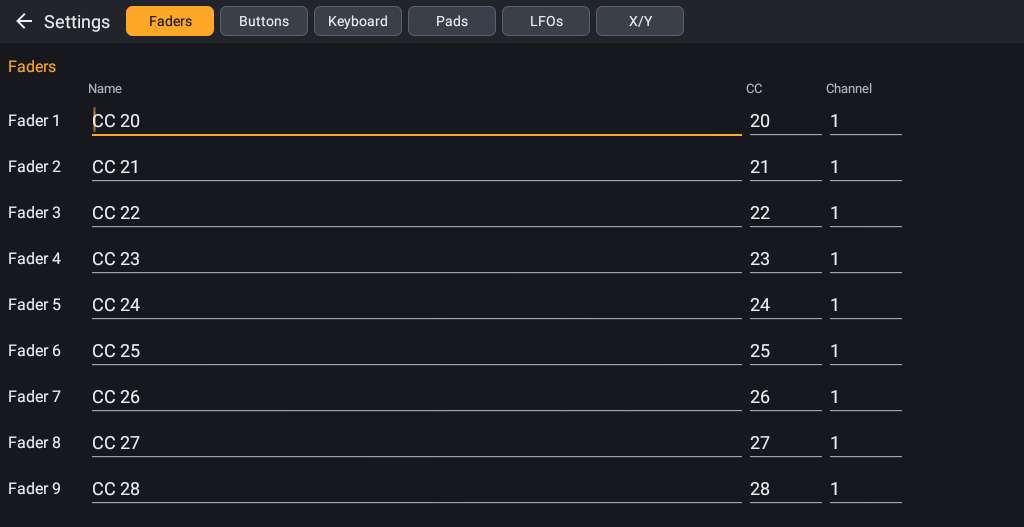
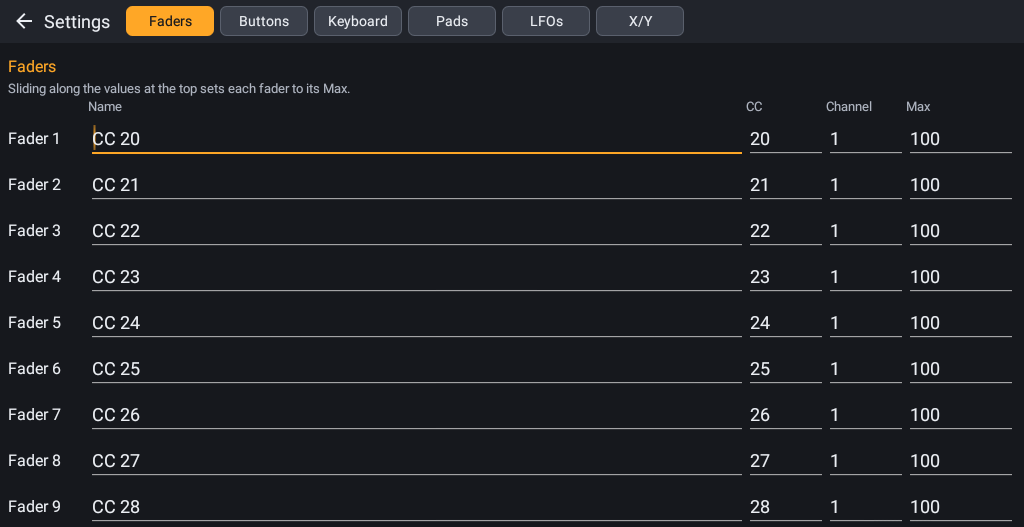
Fader Max: the top-row swipe sets each Fader to its own Max (default 100)

diff --git a/app/src/main/java/com/duddex/faderling/SettingsActivity.kt b/app/src/main/java/com/duddex/faderling/SettingsActivity.kt
@@ -83,8 +83,12 @@ class SettingsActivity : Activity() {
 
     private fun section(list: LinearLayout, kind: ControlKind, titleRes: Int, labelRes: Int) {
         list.addView(text(getString(titleRes), Palette.ACCENT, 16f).apply { setPadding(0, dp(12), 0, dp(2)) })
-        list.addView(columnLabels(kind == ControlKind.BUTTON))
-        (0 until kind.count).forEach { i -> list.addView(row(kind, i, assignments.getValue(kind to i), getString(labelRes, i + 1))) }
+        if (kind == ControlKind.FADER) list.addView(text(getString(R.string.faders_hint), Palette.TEXT_DIM, 13f))
+        list.addView(columnLabels(kind))
+        val maxes = if (kind == ControlKind.FADER) store.loadFaderMaxes() else emptyList()
+        (0 until kind.count).forEach { i ->
+            list.addView(row(kind, i, assignments.getValue(kind to i), getString(labelRes, i + 1), maxes.getOrNull(i)))
+        }
     }
 
     private fun keyboardSection(list: LinearLayout) {
@@ -191,7 +195,7 @@ class SettingsActivity : Activity() {
     private fun lfoSection(list: LinearLayout) {
         list.addView(text(getString(R.string.section_lfos), Palette.ACCENT, 16f).apply { setPadding(0, dp(12), 0, dp(2)) })
         list.addView(text(getString(R.string.lfos_hint), Palette.TEXT_DIM, 13f))
-        list.addView(columnLabels(withMode = false))
+        list.addView(columnLabels(null))
         store.loadLfoAssignments().forEachIndexed { i, lfo ->
             val name = edit(lfo.name, InputType.TYPE_CLASS_TEXT or InputType.TYPE_TEXT_FLAG_CAP_WORDS, Assignment.MAX_NAME_LENGTH)
             val cc = edit(lfo.cc.toString(), InputType.TYPE_CLASS_NUMBER, 3)
@@ -262,19 +266,25 @@ class SettingsActivity : Activity() {
         }
     }
 
-    private fun columnLabels(withMode: Boolean): View = LinearLayout(this).apply {
+    private fun columnLabels(kind: ControlKind?): View = LinearLayout(this).apply {
         addView(text("", Palette.TEXT_DIM, 13f), LinearLayout.LayoutParams(dp(80), LinearLayout.LayoutParams.WRAP_CONTENT))
         addView(text(getString(R.string.label_name), Palette.TEXT_DIM, 13f), LinearLayout.LayoutParams(0, LinearLayout.LayoutParams.WRAP_CONTENT, 1f))
         addView(text(getString(R.string.label_cc), Palette.TEXT_DIM, 13f), LinearLayout.LayoutParams(dp(80), LinearLayout.LayoutParams.WRAP_CONTENT))
         addView(text(getString(R.string.label_channel), Palette.TEXT_DIM, 13f), LinearLayout.LayoutParams(dp(80), LinearLayout.LayoutParams.WRAP_CONTENT))
-        addView(text(if (withMode) getString(R.string.label_mode) else "", Palette.TEXT_DIM, 13f), LinearLayout.LayoutParams(dp(MODE_WIDTH), LinearLayout.LayoutParams.WRAP_CONTENT))
+        val last = when (kind) {
+            ControlKind.FADER -> getString(R.string.label_max)
+            ControlKind.BUTTON -> getString(R.string.label_mode)
+            null -> ""
+        }
+        addView(text(last, Palette.TEXT_DIM, 13f), LinearLayout.LayoutParams(dp(MODE_WIDTH), LinearLayout.LayoutParams.WRAP_CONTENT))
     }
 
-    private fun row(kind: ControlKind, index: Int, a: Assignment, label: String): View {
+    private fun row(kind: ControlKind, index: Int, a: Assignment, label: String, max: Int?): View {
         val name = edit(a.name, InputType.TYPE_CLASS_TEXT or InputType.TYPE_TEXT_FLAG_CAP_WORDS, Assignment.MAX_NAME_LENGTH)
         val cc = edit(a.cc.toString(), InputType.TYPE_CLASS_NUMBER, 3)
         val channel = edit(a.channel.toString(), InputType.TYPE_CLASS_NUMBER, 2)
         val mode = if (kind == ControlKind.BUTTON) modeSwitch(a.mode) else null
+        val maxField = max?.let { edit(it.toString(), InputType.TYPE_CLASS_NUMBER, 3) }
         val warning = text("", Palette.ACCENT, 13f).apply { visibility = View.GONE }
         val r = Row(kind, index, name, cc, channel, mode, warning).apply { current = a }
         rows += r
@@ -287,6 +297,15 @@ class SettingsActivity : Activity() {
         name.addTextChangedListener(watcher)
         cc.addTextChangedListener(watcher)
         channel.addTextChangedListener(watcher)
+        maxField?.addTextChangedListener(object : TextWatcher {
+            override fun beforeTextChanged(s: CharSequence?, start: Int, count: Int, after: Int) {}
+            override fun onTextChanged(s: CharSequence?, start: Int, before: Int, count: Int) {}
+            override fun afterTextChanged(s: Editable?) {
+                val m = maxField.text.toString().toIntOrNull()?.takeIf { it in FaderMax.RANGE }
+                maxField.error = if (m == null) getString(R.string.error_max) else null
+                if (m != null) store.saveFaderMax(index, m)
+            }
+        })
         mode?.setOnClickListener {
             it.tag = if (it.tag == ButtonMode.LATCH) ButtonMode.MOMENTARY else ButtonMode.LATCH
             showMode(it as TextView)
@@ -299,7 +318,10 @@ class SettingsActivity : Activity() {
             addView(name, LinearLayout.LayoutParams(0, LinearLayout.LayoutParams.WRAP_CONTENT, 1f))
             addView(cc, LinearLayout.LayoutParams(dp(80), LinearLayout.LayoutParams.WRAP_CONTENT))
             addView(channel, LinearLayout.LayoutParams(dp(80), LinearLayout.LayoutParams.WRAP_CONTENT))
-            addView(mode ?: View(this@SettingsActivity), LinearLayout.LayoutParams(dp(MODE_WIDTH), dp(36)))
+            addView(
+                maxField ?: mode ?: View(this@SettingsActivity),
+                LinearLayout.LayoutParams(dp(MODE_WIDTH), if (mode != null) dp(36) else LinearLayout.LayoutParams.WRAP_CONTENT),
+            )
         }
         return LinearLayout(this).apply {
             orientation = LinearLayout.VERTICAL

diff --git a/app/src/main/java/com/duddex/faderling/FaderView.kt b/app/src/main/java/com/duddex/faderling/FaderView.kt
@@ -19,6 +19,9 @@ class FaderView(context: Context) : View(context) {
     var name: String = ""
         set(v) { field = v; invalidate() }
 
+    /** Value a touch on or a slide along the value row sets this Fader to; dragging it still reaches 127. */
+    var max: Int = FaderMax.DEFAULT
+
     var value: Int = 0
         private set
 
@@ -53,9 +56,9 @@ class FaderView(context: Context) : View(context) {
     private var releasePending = false
     private var lastFrameNanos = 0L
 
-    /** Swipe along the value row (to 127) or the name row (to 0) that started on this Fader. */
+    /** Swipe along the value row (to each Fader's [max]) or the name row (to 0) that started on this Fader. */
     private var swipe: RowSwipe? = null
-    private var swipeValue = 0
+    private var swipeToMax = false
 
     private fun updateTrackRect() {
         val trackWidth = (width * 0.55f).coerceAtMost(dp(64f))
@@ -89,12 +92,13 @@ class FaderView(context: Context) : View(context) {
                 parent?.requestDisallowInterceptTouchEvent(true)
                 touching = true
                 releasePending = false
+                val onValueRow = event.y < labelHeight
                 val rowValue = when {
-                    event.y < labelHeight -> 127
+                    onValueRow -> max
                     event.y > height - labelHeight -> 0
                     else -> null
                 }
-                swipe = rowValue?.let { swipeValue = it; RowSwipe(rowIndex()) }
+                swipe = rowValue?.let { swipeToMax = onValueRow; RowSwipe(rowIndex()) }
                 glideTo(rowValue?.toFloat() ?: valueAtY(event.y))
                 invalidate()
             }
@@ -122,7 +126,10 @@ class FaderView(context: Context) : View(context) {
 
     private fun swipeAlong(swipe: RowSwipe, x: Float) {
         val i = rowIndexAt(x) ?: return
-        swipe.reach(i).forEach { (rowSibling(it) as? FaderView)?.swipeTo(swipeValue) }
+        swipe.reach(i).forEach { index ->
+            val fader = rowSibling(index) as? FaderView ?: return@forEach
+            fader.swipeTo(if (swipeToMax) fader.max else 0)
+        }
     }
 
     /** Glides to [newValue] for a swipe that started on another Fader, then re-sends like after a release. */

diff --git a/app/src/test/java/com/duddex/faderling/FaderMaxTest.kt b/app/src/test/java/com/duddex/faderling/FaderMaxTest.kt
@@ -1,0 +1,23 @@
+package com.duddex.faderling
+
+import org.junit.Assert.assertEquals
+import org.junit.Assert.assertTrue
+import org.junit.Test
+
+class FaderMaxTest {
+
+    @Test
+    fun `default is 100`() {
+        assertEquals(100, FaderMax.DEFAULT)
+        assertTrue(FaderMax.DEFAULT in FaderMax.RANGE)
+    }
+
+    @Test
+    fun `stored values are clamped to the MIDI range`() {
+        assertEquals(0, FaderMax.clamp(-1))
+        assertEquals(0, FaderMax.clamp(0))
+        assertEquals(100, FaderMax.clamp(100))
+        assertEquals(127, FaderMax.clamp(127))
+        assertEquals(127, FaderMax.clamp(200))
+    }
+}

diff --git a/app/src/main/java/com/duddex/faderling/MainActivity.kt b/app/src/main/java/com/duddex/faderling/MainActivity.kt
@@ -203,6 +203,7 @@ class MainActivity : Activity(), ControlListener, KeyboardView.Listener, PadGrid
         assignments = ControlKind.entries.associateWith { store.loadAll(it) }
 
         faders.forEachIndexed { i, v -> v.name = assignment(ControlKind.FADER, i).name }
+        store.loadFaderMaxes().forEachIndexed { i, max -> faders[i].max = max }
         buttons.forEachIndexed { i, v ->
             val a = assignment(ControlKind.BUTTON, i)
             val old = previous[ControlKind.BUTTON]?.getOrNull(i)

diff --git a/app/src/main/java/com/duddex/faderling/AssignmentStore.kt b/app/src/main/java/com/duddex/faderling/AssignmentStore.kt
@@ -29,6 +29,14 @@ class AssignmentStore(context: Context) {
         editor.apply()
     }
 
+    fun loadFaderMaxes(): List<Int> = (0 until ControlKind.FADER.count).map { i ->
+        FaderMax.clamp(prefs.getInt("fader_max_$i", FaderMax.DEFAULT))
+    }
+
+    fun saveFaderMax(index: Int, max: Int) {
+        prefs.edit().putInt("fader_max_$index", FaderMax.clamp(max)).apply()
+    }
+
     fun loadKeyboard(): KeyboardSettings {
         val default = KeyboardSettings()
         return KeyboardSettings(

diff --git a/app/src/main/java/com/duddex/faderling/FaderMax.kt b/app/src/main/java/com/duddex/faderling/FaderMax.kt
@@ -1,0 +1,9 @@
+package com.duddex.faderling
+
+/** Highest value a slide along a Fader's value row sets it to; dragging the Fader itself still reaches 127. */
+object FaderMax {
+    const val DEFAULT = 100
+    val RANGE = 0..127
+
+    fun clamp(value: Int): Int = value.coerceIn(RANGE)
+}

diff --git a/README.md b/README.md
@@ -12,7 +12,7 @@ Faderling has six Pages, switched with the tabs in the top bar. The top bar also
 
 ![Faders Page](docs/images/faders.png)
 
-10 vertical faders sending CC 20–29. A fader glides to the touched position instead of jumping, then follows your finger. Slide along the values at the top to set every fader you pass to 127, or along the names at the bottom to set them to 0.
+10 vertical faders sending CC 20–29. A fader glides to the touched position instead of jumping, then follows your finger all the way to 127. Slide along the values at the top to set every fader you pass to its Max – 100 by default, set per fader in the Faders settings – or along the names at the bottom to set them to 0.
 
 ### Buttons
 

diff --git a/CHANGELOG.md b/CHANGELOG.md
@@ -6,6 +6,7 @@ All notable changes to Faderling are documented here. The format follows [Keep a
 
 ### Added
 
+- Faders Page: each fader has a Max (0–127, default 100) in the Faders settings. Touching or sliding along the values at the top sets faders to their Max instead of always 127; dragging a fader still goes up to 127.
 - Without a Session, the top bar cycles through "Not connected", the device's IP address and port, and the name Faderling announces itself with – handy for adding a device by hand in rtpMIDI when it does not show up in the Directory.
 
 ## [1.2.0] – 2026-10-25

diff --git a/GLOSSARY.md b/GLOSSARY.md
@@ -14,6 +14,10 @@ _Avoid_: Widget, element
 A vertical Control whose position is sent as a CC value.
 _Avoid_: Slider
 
+**Fader Max**:
+The value that a touch on, or a slide along, a Fader's value row sets it to: 0–127, default 100. Dragging the Fader itself still reaches 127. The Faders settings call it *Max*.
+_Avoid_: Limit, cap, ceiling
+
 **Button**:
 A Control that is either on or off and sends a CC value for each state.
 _Avoid_: Switch, trigger
